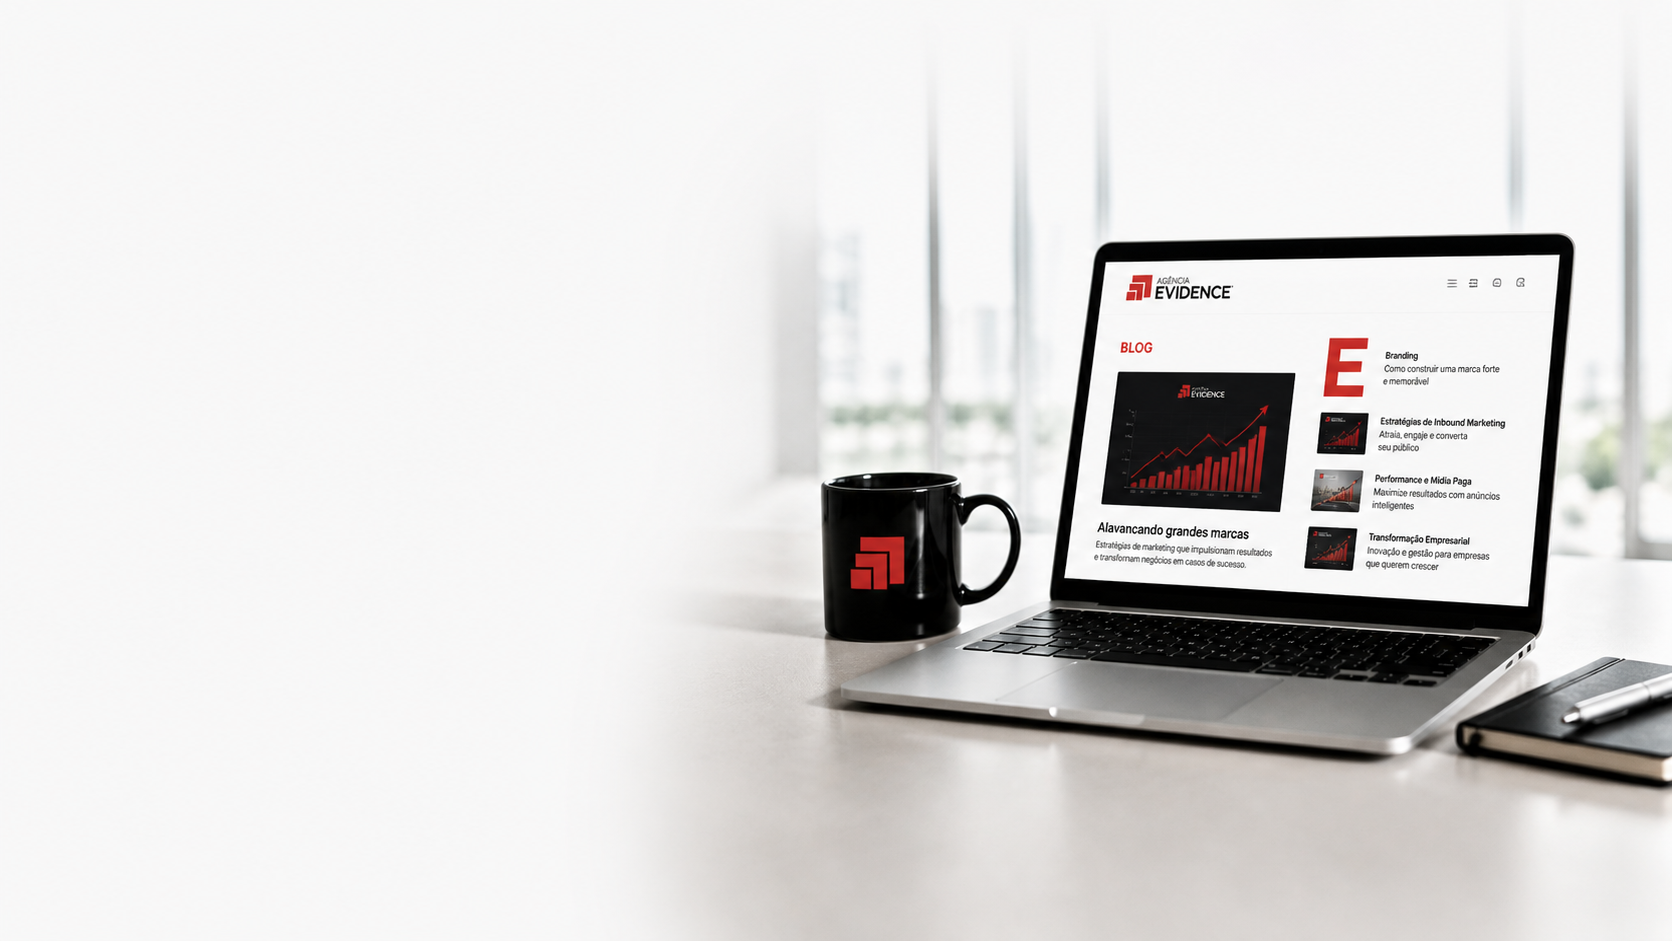
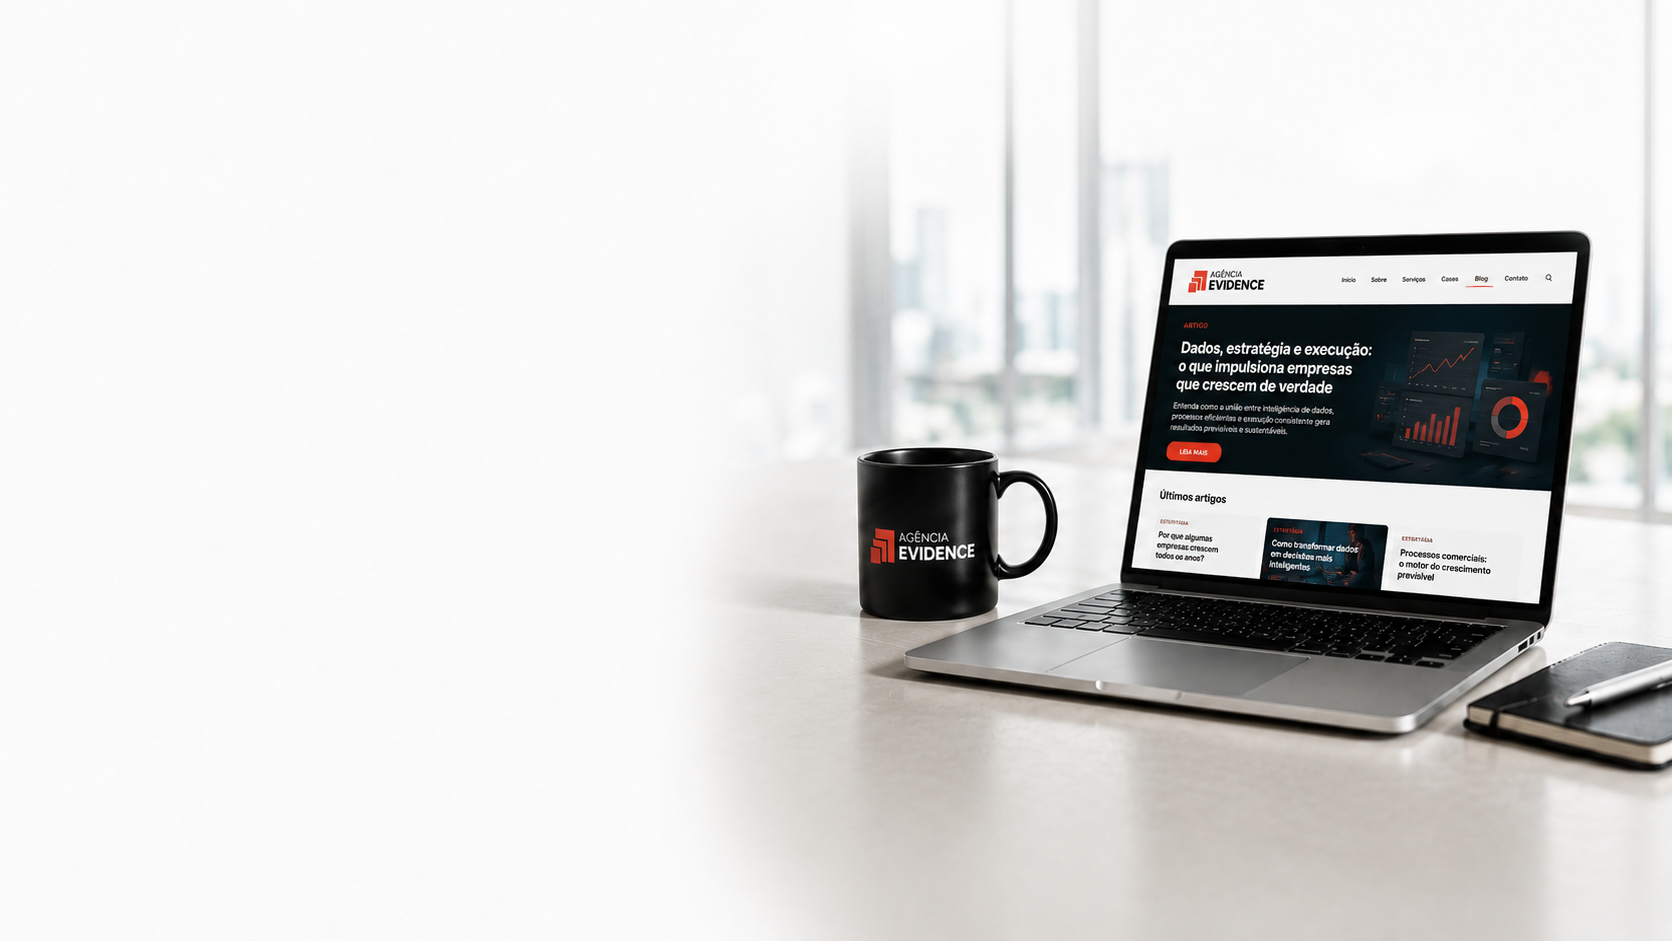
update

Changed region(s): [[0.4354, 0.1233, 1.0, 0.9554], [0.4043, 0.8321, 0.4976, 1.0]]

diff --git a/src/App.jsx b/src/App.jsx
@@ -1,8 +1,7 @@
-import { useEffect, useLayoutEffect, useMemo, useState } from 'react'
+import { lazy, Suspense, useEffect, useLayoutEffect, useMemo, useState } from 'react'
 import { Routes, Route, useLocation } from 'react-router-dom'
 import './index.css'
 import Navbar from './components/Navbar'
-import AnalisePage from './pages/AnalisePage'
 import Hero from './components/Hero'
 import Cenario from './components/Cenario'
 import Gargalos from './components/Gargalos'
@@ -14,15 +13,17 @@ import Blog from './components/Blog'
 import CtaFinal from './components/CtaFinal'
 import Footer from './components/Footer'
 import WhatsAppFloatingButton from './components/WhatsAppFloatingButton'
-import ComoTrabalhamosPage from './pages/ComoTrabalhamosPage'
-import ServicosPage from './pages/ServicosPage'
-import ClientesPage from './pages/ClientesPage'
-import BlogPage from './pages/BlogPage'
-import BlogPostPage from './pages/BlogPostPage'
-import DepoimentosPage from './pages/DepoimentosPage'
-import AdminPage from './pages/AdminPage'
 import { getPublicSitePage } from './services/publicSiteContent.service'
 import { analyticsService } from './services/analytics.service'
+
+const AnalisePage = lazy(() => import('./pages/AnalisePage'))
+const ComoTrabalhamosPage = lazy(() => import('./pages/ComoTrabalhamosPage'))
+const ServicosPage = lazy(() => import('./pages/ServicosPage'))
+const ClientesPage = lazy(() => import('./pages/ClientesPage'))
+const BlogPage = lazy(() => import('./pages/BlogPage'))
+const BlogPostPage = lazy(() => import('./pages/BlogPostPage'))
+const DepoimentosPage = lazy(() => import('./pages/DepoimentosPage'))
+const AdminPage = lazy(() => import('./pages/AdminPage'))
 
 
 const PUBLIC_PAGE_TITLES = {
@@ -140,7 +141,10 @@ function App() {
   const hideNav = location.pathname.startsWith('/analise') || location.pathname.startsWith('/admin')
 
   useEffect(() => {
-    if (location.pathname.startsWith('/admin')) return
+    if (location.pathname.startsWith('/admin')) {
+      document.title = 'Painel Administrativo'
+      return
+    }
 
     const pageTitle = getPublicPageTitle(location.pathname)
     document.title = formatDocumentTitle(pageTitle)
@@ -160,17 +164,19 @@ function App() {
       <ScrollToTop />
       {!hideNav && <Navbar />}
       {!hideNav && <WhatsAppFloatingButton />}
-      <Routes>
-        <Route path="/" element={<HomePage />} />
-        <Route path="/como-trabalhamos" element={<ComoTrabalhamosPage />} />
-        <Route path="/servicos" element={<ServicosPage />} />
-        <Route path="/clientes" element={<ClientesPage />} />
-        <Route path="/blog" element={<BlogPage />} />
-        <Route path="/blog/:id" element={<BlogPostPage />} />
-        <Route path="/depoimentos" element={<DepoimentosPage />} />
-        <Route path="/analise" element={<AnalisePage />} />
-        <Route path="/admin/*" element={<AdminPage />} />
-      </Routes>
+      <Suspense fallback={null}>
+        <Routes>
+          <Route path="/" element={<HomePage />} />
+          <Route path="/como-trabalhamos" element={<ComoTrabalhamosPage />} />
+          <Route path="/servicos" element={<ServicosPage />} />
+          <Route path="/clientes" element={<ClientesPage />} />
+          <Route path="/blog" element={<BlogPage />} />
+          <Route path="/blog/:id" element={<BlogPostPage />} />
+          <Route path="/depoimentos" element={<DepoimentosPage />} />
+          <Route path="/analise" element={<AnalisePage />} />
+          <Route path="/admin/*" element={<AdminPage />} />
+        </Routes>
+      </Suspense>
     </div>
   )
 }

diff --git a/src/components/Footer.jsx b/src/components/Footer.jsx
@@ -1,4 +1,5 @@
 import { Link } from 'react-router-dom'
+import { useEffect, useState } from 'react'
 import { Mail, Phone } from 'lucide-react'
 import { toWhatsAppHref, useContatoInfo, CONTATO_INFO_DEFAULTS } from '../services/contatoInfo.service'
 
@@ -14,6 +15,22 @@ const footerNavLinks = [
 export default function Footer() {
   const contato = useContatoInfo() || CONTATO_INFO_DEFAULTS
   const whatsappHref = toWhatsAppHref(contato.whatsapp)
+  const [showMap, setShowMap] = useState(false)
+
+  useEffect(() => {
+    if (showMap) return undefined
+
+    const loadMap = () => setShowMap(true)
+    const idleId = window.requestIdleCallback
+      ? window.requestIdleCallback(loadMap, { timeout: 1800 })
+      : window.setTimeout(loadMap, 900)
+
+    return () => {
+      if (window.cancelIdleCallback) window.cancelIdleCallback(idleId)
+      else window.clearTimeout(idleId)
+    }
+  }, [showMap])
+
   return (
     <footer id="contato" className="overflow-x-hidden bg-zinc-950 border-t border-zinc-800 pt-16 pb-8" style={{ borderColor: 'var(--color-red-700)' }}>
       <div className="max-w-[1536px] mx-auto px-4 sm:px-6 lg:px-8">
@@ -93,17 +110,22 @@ export default function Footer() {
             <p className="text-white text-xs font-bold tracking-widest uppercase mb-4" style={{ color: 'var(--color-red-500)' }}>ONDE ESTAMOS</p>
             <p className="break-words text-zinc-400 text-xs mb-1" style={{ fontSize: '14px' }}>{contato.endereco || 'Osvaldo Cruz - SP'}</p>
             <p className="text-zinc-400 text-xs mb-3" style={{ fontSize: '14px' }}>Atendemos todo o Brasil</p>
-            <div className="relative w-full max-w-full overflow-hidden" style={{ height: '150px' }}>
+            <div className="relative w-full max-w-full overflow-hidden bg-zinc-900" style={{ height: '150px' }}>
+              <div className="absolute inset-0 flex items-center justify-center bg-zinc-900 text-center text-[12px] font-bold uppercase tracking-[0.16em] text-zinc-600">
+                AGENCIA EVIDENCE
+              </div>
+              {showMap && (
               <iframe
                 src="https://www.google.com/maps/embed?pb=!1m18!1m12!1m3!1d10478.692249045629!2d-50.87932725723093!3d-21.788883335092176!2m3!1f0!2f0!3f0!3m2!1i1024!2i768!4f13.1!3m3!1m2!1s0x949425d96adc880b%3A0xdddb190e31968103!2sAg%C3%AAncia%20Evidence%20-%20Publicidade%20e%20Propaganda%20Digital!5e0!3m2!1spt-BR!2sbr!4v1777464958018!5m2!1spt-BR!2sbr"
                 width="100%"
                 height="100%"
-                style={{ border: 0 }}
+                style={{ border: 0, position: 'absolute', inset: 0, zIndex: 1 }}
                 allowFullScreen=""
-                loading="lazy"
+                loading="eager"
                 referrerPolicy="no-referrer-when-downgrade"
                 title="Agência Evidence - Localização"
               />
+              )}
               <a
                 href="https://maps.google.com/?q=Agencia+Evidence"
                 target="_blank"

diff --git a/src/pages/ClientesPage.jsx b/src/pages/ClientesPage.jsx
@@ -131,6 +131,9 @@ function IconCalendarSm() {
 
 
 export function ClientesHeroSection({ heroBlock, preview = false }) {
+  const hasHeroImage = Boolean(heroBlock?.imageUrl)
+  const heroImageUrl = hasHeroImage ? heroBlock.imageUrl : '/clientes-banner-fallback.png'
+
   return (
     <>
       {/* ── HERO ── */}
@@ -139,7 +142,7 @@ export function ClientesHeroSection({ heroBlock, preview = false }) {
         <div
           className="absolute inset-0"
           style={{
-            backgroundImage: `url(${heroBlock?.imageUrl || '/2e8498a6-0a0c-474f-9b7f-a6fe475f0613.png'})`,
+            backgroundImage: `url(${heroImageUrl})`,
             backgroundSize: 'cover',
             backgroundPosition: 'right 35%',
             backgroundRepeat: 'no-repeat',
@@ -155,7 +158,7 @@ export function ClientesHeroSection({ heroBlock, preview = false }) {
             className="font-poppins font-bold text-white leading-tight mb-4 mx-auto lg:mx-0"
             style={{ fontSize: 'clamp(28px, 4vw, 48px)', maxWidth: '726px', lineHeight: '1.2' }}
           >
-            {heroBlock?.headline || <>Empresas que confiam<br />na Evidence para <span className="text-red-600">crescer.</span></>}
+            {heroBlock?.headline || 'Empresas que confiam na Evidence para crescer'}
           </h1>
           <p className="text-zinc-400 mx-auto lg:mx-0" style={{ fontSize: '20px', maxWidth: '457px', lineHeight: '1.6' }}>
             {heroBlock?.description || 'Parcerias construídas com estratégia, compromisso e foco em resultados reais.'}
@@ -204,7 +207,7 @@ export function ClientesHeroSection({ heroBlock, preview = false }) {
   )
 }
 
-export function ClientesGridSection({ clients, compact = false }) {
+export function ClientesGridSection({ clients, compact = false, loading = false }) {
   const [activeSegment, setActiveSegment] = useState('Todos os segmentos')
   const filterScrollRef = useRef(null)
   const segments = ['Todos os segmentos', ...Array.from(new Set(clients.map((client) => client.segment).filter(Boolean)))]
@@ -224,6 +227,12 @@ export function ClientesGridSection({ clients, compact = false }) {
       {/* ── FILTERS + GRID ── */}
       <section className={compact ? 'bg-white pt-8 pb-8' : 'bg-white pt-8 lg:pt-[120px] pb-12 lg:pb-16'}>
         <div className="max-w-368 mx-auto px-4 sm:px-6 lg:px-8">
+          {loading ? (
+            <div className="py-16 text-center">
+              <p className="font-poppins text-[18px] font-bold text-zinc-900">Carregando</p>
+            </div>
+          ) : (
+          <>
 
           {/* Filter tabs */}
           <div className={`relative flex items-center gap-2 ${compact ? 'mb-6' : 'mb-10'}`}>
@@ -294,6 +303,8 @@ export function ClientesGridSection({ clients, compact = false }) {
               </div>
             ))}
           </div>
+          </>
+          )}
         </div>
       </section>
     </>
@@ -364,8 +375,11 @@ export function ClientesCtaSection({ ctaBlock }) {
 /* ?? Page ?? */
 export default function ClientesPage() {
   const [adminData, setAdminData] = useState(null)
+  const [loadingClients, setLoadingClients] = useState(true)
   useEffect(() => {
-    getPublicSitePage('content-clientes').then(setAdminData)
+    getPublicSitePage('content-clientes')
+      .then(setAdminData)
+      .finally(() => setLoadingClients(false))
   }, [])
 
   const adminBlocks = adminData?.blocks ?? null
@@ -378,7 +392,7 @@ export default function ClientesPage() {
     <>
       <main style={{ marginTop: '90px' }}>
         <ClientesHeroSection heroBlock={heroBlock} />
-        <ClientesGridSection clients={clients} />
+        <ClientesGridSection clients={clients} loading={loadingClients} />
         <ClientesCtaSection ctaBlock={ctaBlock} />
       </main>
       <Footer />

diff --git a/src/pages/admin/SiteContentPage.tsx b/src/pages/admin/SiteContentPage.tsx
@@ -2236,9 +2236,9 @@ function BlockEditor({
         {!isProcesso && !isEstatisticas && !isGridServicos && !isClientesList && !isDepoimentosList && (
         <label className="block lg:col-span-2">
           <span className="mb-1.5 block text-[13px] font-bold text-[#111318]">{labels.headline}</span>
-          <input
+          <textarea
             {...editorAttrs('headline')}
-            className="h-11 w-full rounded-lg border border-[#dfe3ea] bg-white px-3 text-[14px] outline-none focus:border-[#eb001a] focus:ring-2 focus:ring-[#eb001a]/10"
+            className="min-h-[68px] w-full resize-y rounded-lg border border-[#dfe3ea] bg-white px-3 py-2.5 text-[14px] leading-relaxed outline-none focus:border-[#eb001a] focus:ring-2 focus:ring-[#eb001a]/10"
             value={isCenario ? cenarioHeadline : isGargalos ? gargalosHeadline : isAtuacao ? atuacaoHeadline : isFullProcesso ? block.headline : isProcesso ? processoStepOneTitle : block.headline}
             onChange={(event) => onUpdate(isFullProcesso ? 'headline' : isProcesso ? 'stepOneTitle' : 'headline', event.target.value)}
           />
@@ -2656,16 +2656,18 @@ function BlockEditor({
           <>
             <label className="block">
               <span className="mb-1.5 block text-[13px] font-bold text-[#111318]">Texto do botão principal</span>
-              <input
-                className="h-11 w-full rounded-lg border border-[#dfe3ea] bg-white px-3 text-[14px] outline-none focus:border-[#eb001a] focus:ring-2 focus:ring-[#eb001a]/10"
+              <textarea
+                rows={2}
+                className="min-h-[52px] w-full resize-y rounded-lg border border-[#dfe3ea] bg-white px-3 py-2 text-[14px] leading-5 outline-none focus:border-[#eb001a] focus:ring-2 focus:ring-[#eb001a]/10"
                 value={block.buttonPrimary ?? 'RECEBER ANÁLISE'}
                 onChange={(event) => onUpdate('buttonPrimary', event.target.value)}
               />
             </label>
             <label className="block">
               <span className="mb-1.5 block text-[13px] font-bold text-[#111318]">Texto do botão secundário</span>
-              <input
-                className="h-11 w-full rounded-lg border border-[#dfe3ea] bg-white px-3 text-[14px] outline-none focus:border-[#eb001a] focus:ring-2 focus:ring-[#eb001a]/10"
+              <textarea
+                rows={2}
+                className="min-h-[52px] w-full resize-y rounded-lg border border-[#dfe3ea] bg-white px-3 py-2 text-[14px] leading-5 outline-none focus:border-[#eb001a] focus:ring-2 focus:ring-[#eb001a]/10"
                 value={block.buttonSecondary ?? 'VER COMO FUNCIONA'}
                 onChange={(event) => onUpdate('buttonSecondary', event.target.value)}
               />
@@ -3483,8 +3485,8 @@ export default function SiteContentPage({
                       </label>
                       <label className="block lg:col-span-2">
                         <span className="mb-1.5 block text-[13px] font-bold text-[#111318]">Título principal</span>
-                        <input
-                          className="h-11 w-full rounded-lg border border-[#dfe3ea] px-3 text-[14px] outline-none focus:border-[#eb001a] focus:ring-2 focus:ring-[#eb001a]/10"
+                        <textarea
+                          className="min-h-[68px] w-full resize-y rounded-lg border border-[#dfe3ea] px-3 py-2.5 text-[14px] leading-relaxed outline-none focus:border-[#eb001a] focus:ring-2 focus:ring-[#eb001a]/10"
                           value={block.headline}
                           onChange={(event) => updateBlock(block.id, 'headline', event.target.value)}
                         />

diff --git a/src/pages/ServicosPage.jsx b/src/pages/ServicosPage.jsx
@@ -403,11 +403,11 @@ export default function ServicosPage() {
           <div className="relative z-10 max-w-384 mx-auto px-4 sm:px-6 lg:px-8">
             {/* Left */}
               <div className="max-w-2xl text-center lg:text-left mx-auto lg:mx-0 flex flex-col items-center lg:items-start">
-              <p className="text-red-600 text-xs font-bold tracking-widest uppercase mb-5" style={{ fontSize: '13px' }}>
+              <p className="text-zinc-900 text-xs font-bold tracking-widest uppercase mb-5" style={{ fontSize: '13px' }}>
                 {heroBlock?.eyebrow || 'NOSSOS SERVIÇOS'}
               </p>
               <h1 className="font-poppins text-3xl sm:text-4xl lg:text-[46px] font-bold text-zinc-900 leading-tight mb-6" style={{ lineHeight: '1.12' }}>
-                {heroBlock?.headline || <>Soluções completas para<br className="hidden lg:block" />{' '}gerar demanda e{' '}<span className="text-red-600">acelerar vendas.</span></>}
+                {heroBlock?.headline || <>Soluções completas para<br className="hidden lg:block" />{' '}gerar demanda e acelerar vendas.</>}
               </h1>
               <p className="text-zinc-500 leading-relaxed" style={{ fontSize: '18px', maxWidth: '560px' }}>
                 {heroBlock?.description || 'Atuamos em todas as frentes do marketing e vendas para estruturar, executar e escalar o crescimento da sua empresa.'}
@@ -558,7 +558,7 @@ export default function ServicosPage() {
               </div>
 
               {/* Divider 2 */}
-              <div className="hidden lg:block self-stretch w-px min-h-12" style={{ backgroundColor: 'rgba(63, 63, 70, 0.37)' }} />
+              {/* <div className="hidden lg:block self-stretch w-px min-h-12" style={{ backgroundColor: 'rgba(63, 63, 70, 0.68)' }} /> */}
 
               {/* CTA button */}
               <div className="flex flex-col items-center lg:items-stretch gap-4 shrink-0 w-full lg:w-auto">
@@ -572,7 +572,7 @@ export default function ServicosPage() {
                     <path strokeLinecap="round" strokeLinejoin="round" d="M17 8l4 4m0 0l-4 4m4-4H3" />
                   </svg>
                 </a>
-                <div className="flex items-center justify-center lg:justify-start gap-3">
+                {/* <div className="flex items-center justify-center lg:justify-start gap-3">
                   <div className="flex -space-x-2 shrink-0">
                     <img src="/peoples/men1.jpg" alt="Cliente 1" className="w-8 h-8 rounded-full border-2 border-zinc-900 object-cover" />
                     <img src="/peoples/men2.jpg" alt="Cliente 2" className="w-8 h-8 rounded-full border-2 border-zinc-900 object-cover" />
@@ -582,7 +582,7 @@ export default function ServicosPage() {
                   <p className="text-zinc-400 text-center lg:text-left" style={{ maxWidth: '131px', fontSize: '13px', lineHeight: '1.4' }}>
                     {ctaBlock?.statOne || '+60 empresas já confiam na Evidence'}
                   </p>
-                </div>
+                </div> */}
               </div>
 
             </div>

diff --git a/index.html b/index.html
@@ -1,10 +1,10 @@
 <!doctype html>
-<html lang="en">
+<html lang="pt-br">
   <head>
     <meta charset="UTF-8" />
-    <link rel="icon" type="image/svg+xml" href="/favicon.svg" />
+    <link rel="icon" type="image/svg+xml" href="/favicon.png" />
     <meta name="viewport" content="width=device-width, initial-scale=1.0" />
-    <title>site</title>
+    <title>Agência Evidence</title>
   </head>
   <body>
     <div id="root"></div>

diff --git a/src/components/Hero.jsx b/src/components/Hero.jsx
@@ -62,7 +62,7 @@ export default function Hero({ block = null }) {
             <div className="flex flex-col sm:flex-row gap-3 sm:gap-4 justify-center sm:justify-start">
               <a
                 href={content.buttonHref || '#contato'}
-                className="cursor-pointer inline-flex w-full max-w-[288px] items-center justify-center gap-2 self-center bg-red-600 px-6 py-4 text-center text-sm font-bold sm:text-left tracking-wide text-white transition-colors duration-200 hover:bg-red-700 sm:w-auto sm:min-w-[256px] sm:max-w-[360px] sm:self-auto"
+                className="cursor-pointer inline-flex w-full max-w-[288px] items-center justify-center gap-2 self-center bg-red-600 px-6 py-4 text-center text-sm font-bold sm:text-left tracking-wide text-white transition-colors duration-200 hover:bg-red-700 sm:w-auto sm:min-w-[256px] sm:max-w-[360px] sm:self-auto whitespace-pre-line"
               >
                 {content.buttonPrimary || defaultBlock.buttonPrimary}
                 <svg className="w-4 h-4" fill="none" stroke="currentColor" strokeWidth="2" viewBox="0 0 24 24">
@@ -71,7 +71,7 @@ export default function Hero({ block = null }) {
               </a>
               <a
                 href={content.buttonSecondaryHref || '#como-trabalhamos'}
-                className="cursor-pointer inline-flex w-full max-w-[288px] items-center justify-center gap-2 self-center border border-white/30 px-6 py-4 text-center text-sm font-semibold sm:text-left tracking-wide text-white transition-colors duration-200 hover:border-white/60 sm:w-auto sm:min-w-[224px] sm:max-w-[320px] sm:self-auto"
+                className="cursor-pointer inline-flex w-full max-w-[288px] items-center justify-center gap-2 self-center border border-white/30 px-6 py-4 text-center text-sm font-semibold sm:text-left tracking-wide text-white transition-colors duration-200 hover:border-white/60 sm:w-auto sm:min-w-[224px] sm:max-w-[320px] sm:self-auto whitespace-pre-line"
               >
                 {content.buttonSecondary || defaultBlock.buttonSecondary}
                 <svg className="w-4 h-4" fill="none" stroke="currentColor" strokeWidth="2" viewBox="0 0 24 24">

diff --git a/src/pages/ComoTrabalhamosPage.jsx b/src/pages/ComoTrabalhamosPage.jsx
@@ -136,16 +136,18 @@ function ComoTrabalhamosCtaSection({ cta }) {
             <h2 className="font-poppins font-bold text-white mb-3 leading-tight text-2xl sm:text-3xl lg:text-[29px]">{cta.headline}</h2>
             <p className="text-zinc-400 text-sm leading-relaxed" style={{ fontSize: '15px' }}>{cta.description}</p>
           </div>
-          <div className="hidden lg:block self-stretch w-px min-h-[48px]" style={{ backgroundColor: 'rgba(63, 63, 70, 0.37)' }} />
+          {/* <div className="hidden lg:block self-stretch w-px min-h-[48px]" style={{ backgroundColor: 'rgba(63, 63, 70, 0.37)' }} /> */}
           <div className="flex flex-col items-center lg:items-stretch gap-4 shrink-0 w-full lg:w-auto">
             <a href="#contato" className="cursor-pointer bg-red-600 hover:bg-red-700 text-white font-bold text-sm tracking-wide px-8 py-4 transition-colors duration-200 flex items-center justify-between gap-2" style={{ borderRadius: '4px', fontSize: '15px' }}>
               {cta.buttonPrimary}
               <svg fill="none" stroke="currentColor" strokeWidth="2" viewBox="0 0 24 24" style={{ width: '22px', height: '22px', flexShrink: 0 }}><path strokeLinecap="round" strokeLinejoin="round" d="M17 8l4 4m0 0l-4 4m4-4H3" /></svg>
             </a>
+            {/*
             <div className="flex items-center justify-center lg:justify-start gap-3">
               <div className="flex -space-x-2 shrink-0">{[1, 2, 3, 4].map((i) => <img key={i} src={`/peoples/men${i}.jpg`} alt={`Cliente ${i}`} className="w-8 h-8 rounded-full border-2 border-zinc-900 object-cover" />)}</div>
               <p className="text-zinc-400 text-center lg:text-left" style={{ maxWidth: '131px', fontSize: '13px', lineHeight: '1.4' }}>+60 empresas j? confiam na Evidence</p>
             </div>
+            */}
           </div>
         </div>
       </div>

diff --git a/src/pages/admin/AnaliseBuilderPage.tsx b/src/pages/admin/AnaliseBuilderPage.tsx
@@ -383,7 +383,6 @@ export default function AnaliseBuilderPage(): ReactElement {
           {error && <p className="mt-2 text-[12px] font-bold text-[#eb001a]">{error}</p>}
         </div>
         <div className="flex flex-wrap items-center gap-3">
-          <div className="hidden h-10 min-w-[240px] items-center rounded-xl border border-[#dfe3ea] bg-[#f8fafc] px-3 text-[13px] text-[#8a93a3] md:flex">Buscar...</div>
           <button type="button" onClick={saveCurrentForm} disabled={saving} className="inline-flex h-10 items-center gap-2 rounded-xl bg-[#eb001a] px-5 text-[13px] font-bold text-white shadow-[0_10px_24px_rgba(235,0,26,0.22)] disabled:opacity-60">
             <Save className="h-4 w-4" /> {saving ? 'Salvando...' : 'Salvar'}
           </button>
@@ -393,7 +392,7 @@ export default function AnaliseBuilderPage(): ReactElement {
       <div className="grid min-h-[760px] grid-cols-1 xl:grid-cols-[300px_minmax(0,1fr)]">
         <aside className="border-r border-[#e3e7ee] bg-white p-6">
           <h2 className="text-[16px] font-bold">Segmentos</h2>
-          <p className="mt-2 text-[13px] leading-relaxed text-[#5f6672]">Cada segmento Ã© um formulário da API.</p>
+          <p className="mt-2 text-[13px] leading-relaxed text-[#5f6672]">Cada segmento é um formulário da API.</p>
           <div className="mt-5 space-y-3">
             {forms.map((form, index) => {
               const Icon = getIcon(form.icon).Icon
@@ -605,4 +604,3 @@ export default function AnaliseBuilderPage(): ReactElement {
     </div>
   )
 }
-

diff --git a/src/components/CtaFinal.jsx b/src/components/CtaFinal.jsx
@@ -52,8 +52,6 @@ export default function CtaFinal({ block = null }) {
             </p>
           </div>
 
-          <div className="hidden lg:block self-stretch w-px min-h-[48px]" />
-
           <div className="flex flex-col items-center lg:items-stretch gap-4 shrink-0 w-full lg:w-auto">
             <a
               href={content.buttonHref || defaultBlock.buttonHref}